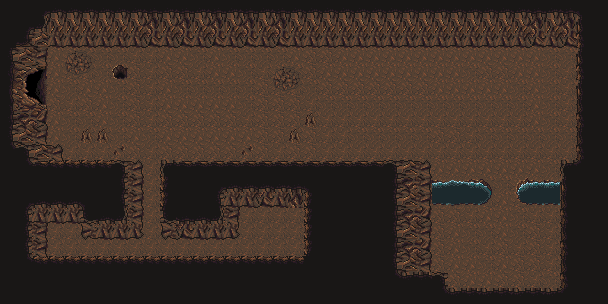
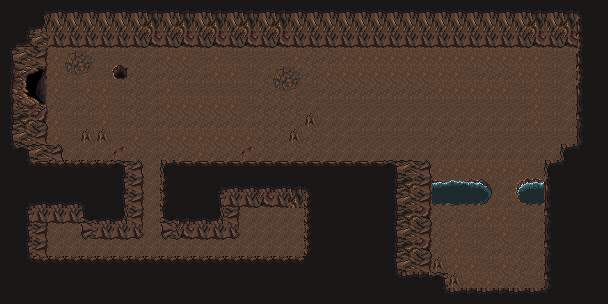
changed naming convention and added more boundaries

Changed region(s): [[0.875, 0.4737, 0.9688, 0.977], [0.6875, 0.8586, 0.75, 0.8882], [0.7188, 0.9178, 0.75, 0.9474]]

diff --git a/js/app.js b/js/app.js
@@ -11,24 +11,18 @@ let movementArea;
 let winner = false;
 let gameOver = false;
 
-// === *** SET BOUNDRIES *** === //
+// === *** DECLARE BOUNDRIES *** === //
 // check to see where the player is, adjust the boundries accordingly.
-let bound1;
-let bound2;
-// const bound3 = new Boundry(, , , )
-// const bound4 = new Boundry(, , , )
-// const bound5 = new Boundry(, , , )
-// const bound6 = new Boundry(, , , )
-// const bound7 = new Boundry(, , , )
-// const bound8 = new Boundry(, , , )
-// const bound9 = new Boundry
-// const bound10 = new Boundry
-// const bound11 = new Boundry
-// const bound12 = new Boundry
-// const bound13 = new Boundry
-// const bound14 = new Boundry
-// const bound15 = new Boundry
-// === *** SET BOUNDRIES *** === //
+let bdrMain1;
+let bdrMain2;
+let bdrMain3;
+let bdrMain4;
+let bdrMain5;
+let bdrMain6;
+let bdrMain7;
+let bdrMain8;
+
+// === *** DECLARE BOUNDRIES *** === //
 
 game.setAttribute("height", "608");
 game.setAttribute("width", "1216");
@@ -69,10 +63,10 @@ class Entity {
 class Boundry {
     constructor(name, x, y, width, height) {
         this.name = name
-        this.x = x;
-        this.y = y;
-        this.height = height;
-        this.width = width;
+        this.x = x * 32;
+        this.y = y * 32;
+        this.height = height * 32;
+        this.width = width * 32;
     }
     render() {
         ctx.fillStyle = "grey";
@@ -91,7 +85,7 @@ window.addEventListener("DOMContentLoaded", function(e) {
     // create and set entities on board
     player = new Entity("Hero",96, 160, "blue", 32, 32, 10, 3);
     orc = new Entity("Orc",608, 192, "darkGreen", 32, 32, 10, 3);
-    chest = new Entity("Chest",96, 448, "yellow", 32, 32, 10, 3);
+    chest = new Entity("Chest",96, 448, "yellow", 64, 32, 10, 3);
 
     // set boundries to walls
     setBoundaries()
@@ -144,32 +138,42 @@ function movementHandler(e) {
 }
 
 function setBoundaries() {
-    bound1 = new Boundry("caveEntrance", 2*32, 3*32, 1*32, 6*32);
-    bound2 = new Boundry("mainAreaTop", 3*32, 2*32, 33*32, 1*32); 
-    // const bound3 = new Boundry(, , , )
-    // const bound4 = new Boundry(, , , )
-    // const bound5 = new Boundry(, , , )
-    // const bound6 = new Boundry(, , , )
-    // const bound7 = new Boundry(, , , )
-    // const bound8 = new Boundry(, , , )
-    // const bound9 = new Boundry
-    // const bound10 = new Boundry
-    // const bound11 = new Boundry
-    // const bound12 = new Boundry
-    // const bound13 = new Boundry
-    // const bound14 = new Boundry
-    // const bound15 = new Boundry
+    bdrMain1 = new Boundry("caveEntrance", 2, 3, 1, 6);
+    bdrMain2 = new Boundry("mainAreaTop", 3, 2, 33, 1); 
+    bdrMain3 = new Boundry("mainAreaBotLef", 3, 9, 1, 1);
+    bdrMain4 = new Boundry("mainAreaBot1", 4, 10, 5, 1);
+    bdrMain5 = new Boundry("mainAreaBot2", 10, 10, 17, 1);
+    bdrMain6 = new Boundry("mainAreaBot3", 34, 10, 1, 1);
+    bdrMain7 = new Boundry("mainAreaBotRt", 35, 9, 1, 1);
+    bdrMain8 = new Boundry("mainAreaRt", 36, 3, 1, 6);
+    // bound9 = new Boundry(, , , );
+    // bound10 = new Boundry(, , , );
+    // bound11 = new Boundry(, , , );
+    // bound12 = new Boundry(, , , );
+    // bound13 = new Boundry(, , , );
 }
 
 function renderBoundries() {
-    bound1.render();
-    bound2.render();
+    bdrMain1.render();
+    bdrMain2.render();
+    bdrMain3.render();
+    bdrMain4.render();
+    bdrMain5.render();
+    bdrMain6.render();
+    bdrMain7.render();
+    bdrMain8.render();
 }
 
 function checkBoundryCollison(direction) {
     if (
-    checkBoundries(player, bound1, direction) ||
-    checkBoundries(player, bound2, direction)
+    checkBoundries(player, bdrMain1, direction) ||
+    checkBoundries(player, bdrMain2, direction) ||
+    checkBoundries(player, bdrMain3, direction) ||
+    checkBoundries(player, bdrMain4, direction) ||
+    checkBoundries(player, bdrMain5, direction) ||
+    checkBoundries(player, bdrMain6, direction) ||
+    checkBoundries(player, bdrMain7, direction) ||
+    checkBoundries(player, bdrMain8, direction)
     ) {
         return true;
     }
